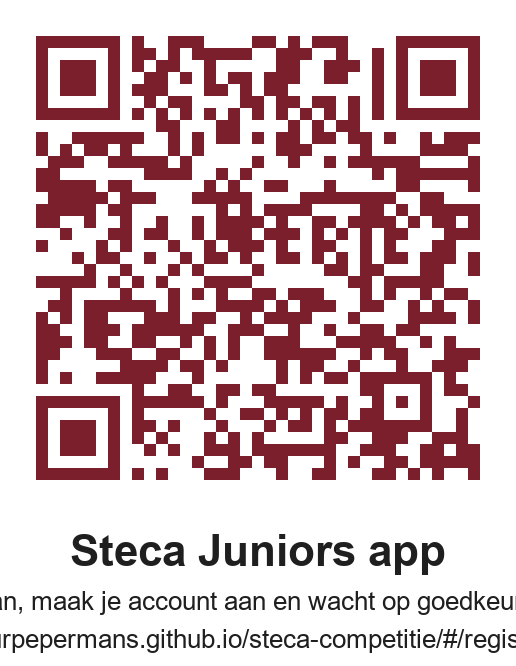
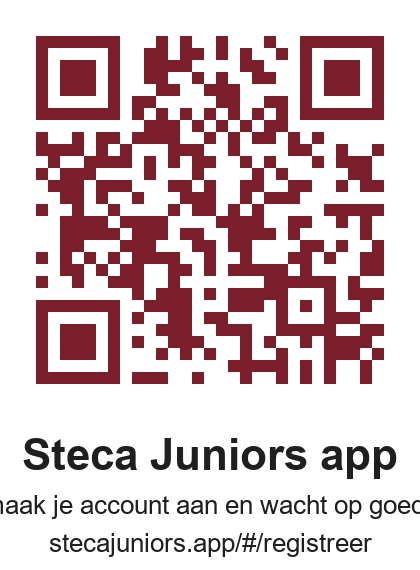
Eigen domein stecajuniors.app: docs, README en QR-code bijgewerkt

diff --git a/tools/maak_qr.py b/tools/maak_qr.py
@@ -8,7 +8,7 @@ from pathlib import Path
 import qrcode
 from PIL import Image, ImageDraw, ImageFont
 
-URL = sys.argv[1] if len(sys.argv) > 1 else "https://arthurpepermans.github.io/steca-competitie/#/registreer"
+URL = sys.argv[1] if len(sys.argv) > 1 else "https://stecajuniors.app/#/registreer"
 DOEL = Path(__file__).resolve().parents[1] / "docs" / "qr-registreer.png"
 
 qr = qrcode.QRCode(error_correction=qrcode.constants.ERROR_CORRECT_M, box_size=12, border=3)

diff --git a/README.md b/README.md
@@ -128,14 +128,14 @@ statistieken, ploegen, opstelling en ledenlijst. Volledige beschrijving in `docs
 QR-code voor de registratiepagina: `docs/qr-registreer.png`.
 
 Techniek: React + Vite + TypeScript, Supabase Auth en Postgres met row level security. Gehost op
-GitHub Pages via `.github/workflows/deploy-app.yml`, adres https://arthurpepermans.github.io/steca-competitie/.
+GitHub Pages via `.github/workflows/deploy-app.yml`, adres https://stecajuniors.app/ (eigen domein bij Porkbun, DNS naar GitHub Pages; de oude link https://arthurpepermans.github.io/steca-competitie/ verwijst door). Het basispad volgt automatisch de Pages-instellingen.
 
 ### Eenmalige instelling
 
 1. Voer `supabase/app_schema.sql` uit in de SQL Editor (na `schema.sql`). De view `members_basis`
    staat bewust zonder row level security: ze toont alleen naam en functie aan supporters.
 2. Supabase > Authentication > Providers > Email: zet "Confirm email" uit (goedkeuring gebeurt in de app).
-3. Supabase > Authentication > URL Configuration: Site URL `https://arthurpepermans.github.io/steca-competitie/`
+3. Supabase > Authentication > URL Configuration: Site URL `https://stecajuniors.app/`
    en dezelfde URL bij Redirect URLs.
 4. GitHub > Settings > Secrets and variables > Actions > Variables: `VITE_SUPABASE_URL` en
    `VITE_SUPABASE_ANON_KEY` (Supabase > Project Settings > API > anon public).

diff --git a/docs/APP_BRIEF.md b/docs/APP_BRIEF.md
@@ -118,7 +118,7 @@ Nieuw:
 - React + Vite + TypeScript, map `app/` in deze repo. Supabase JS-client met de anon key;
   Supabase Auth voor accounts; Postgres met row level security voor de rechten.
 - Hosting gratis op GitHub Pages vanuit deze repo (eigen workflow), voorlopig op
-  `https://arthurpepermans.github.io/steca-competitie/`. Arthur koopt een eigen domein; dat wordt
+  `https://stecajuniors.app/`. Arthur koopt een eigen domein; dat wordt
   daarna aan GitHub Pages gekoppeld (CNAME) en de QR-code wordt opnieuw gemaakt.
 - PWA-manifest zodat de site op het beginscherm van de telefoon kan.
 - In Supabase moet eenmalig ingesteld worden: Authentication > Providers > Email >
